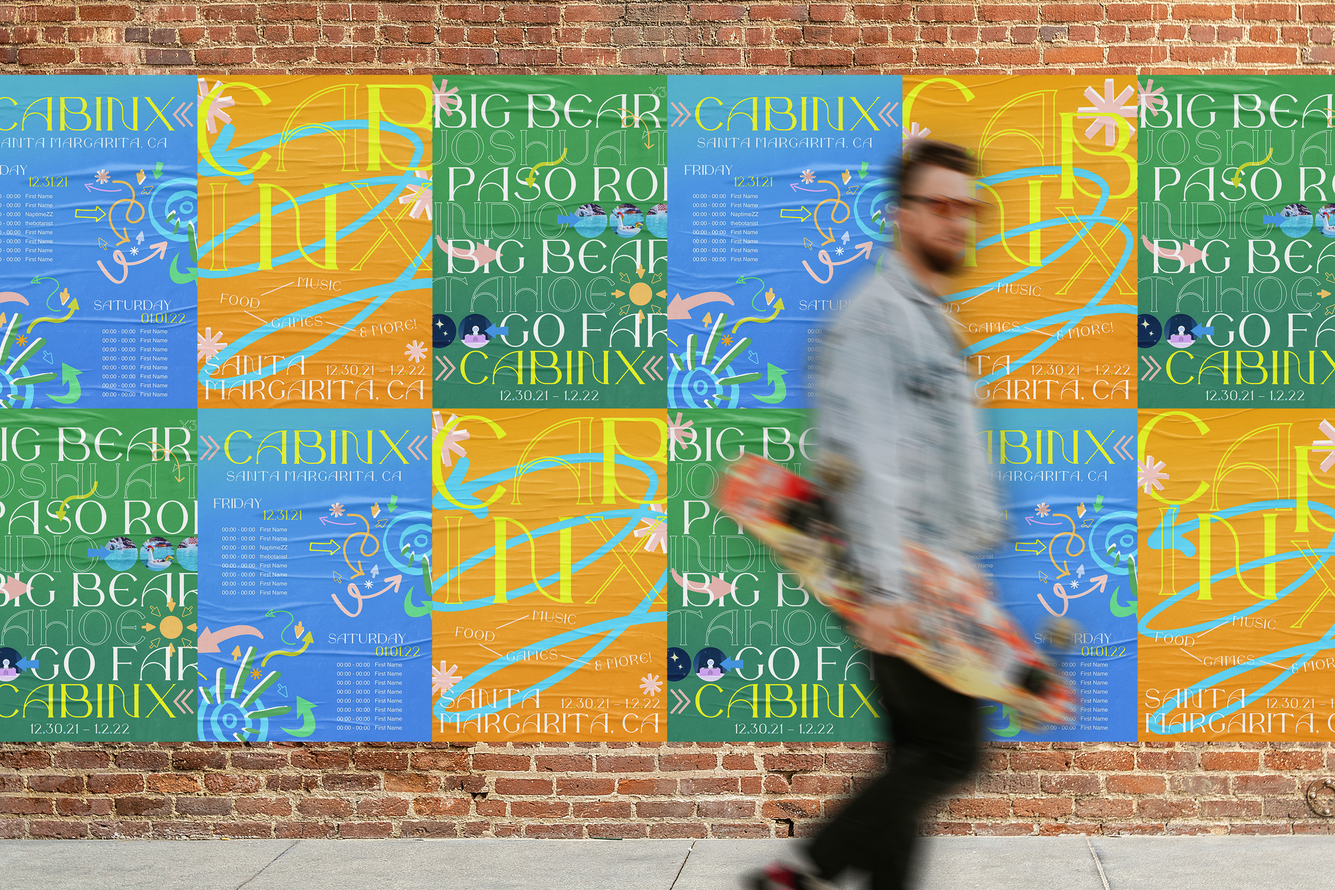
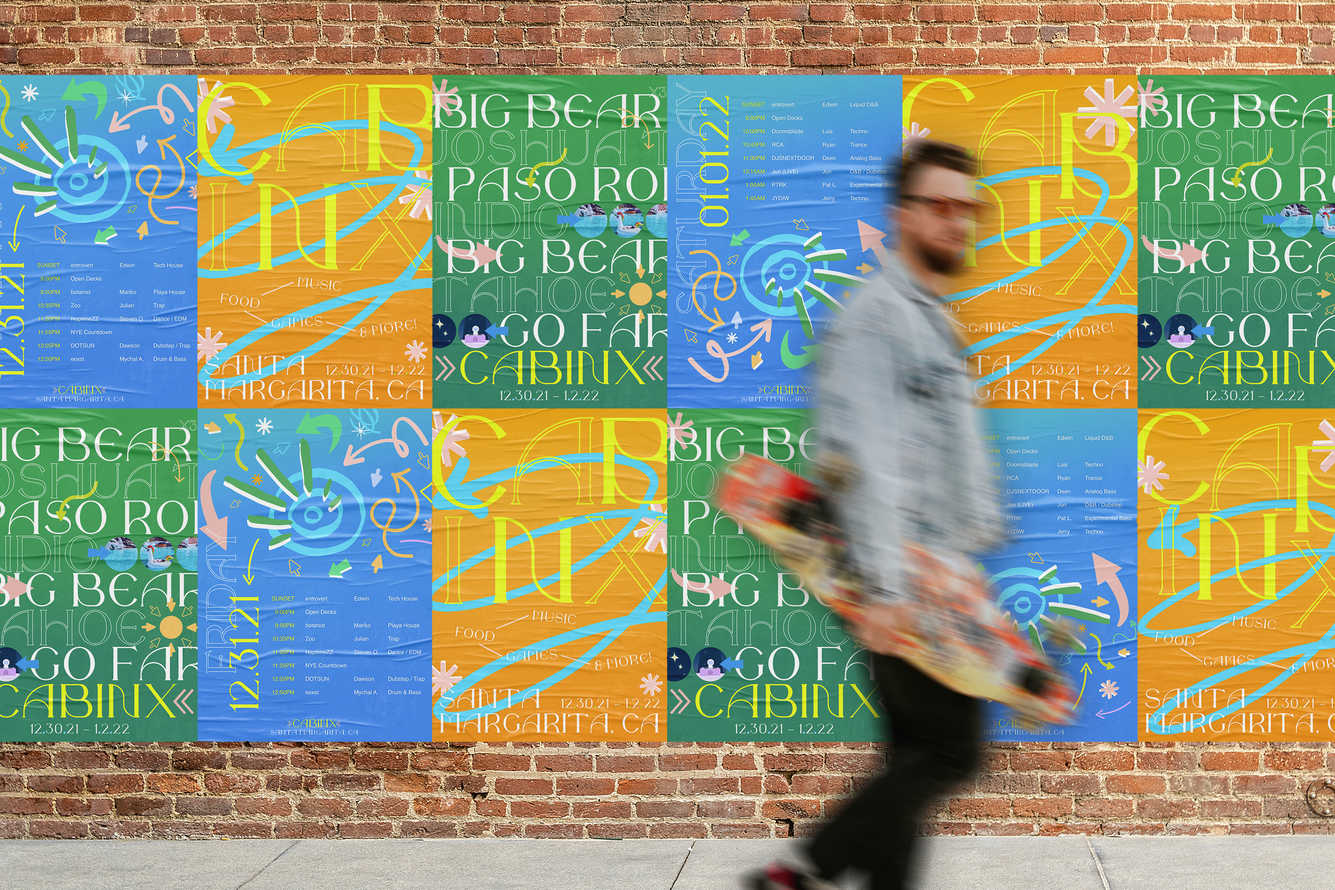
updated cabin mockup image to have artist names

diff --git a/work.html b/work.html
@@ -82,16 +82,16 @@
           </div>
         </div>
         <div class="row">
-          <div class="images col-md-2">
+          <div class="images col-sd-1 col-md-2">
             <img src="images/NOCTA/NOCTA_BB_IG_1.jpg" alt="Nocta Basketball Instagram Story"></img>
           </div>
-          <div class="images col-md-2">
+          <div class="images col-sm-1 col-md-2">
             <img src="images/NOCTA/NOCTA_BB_IG_2.jpg" alt="Nocta Basketball Instagram Story"></img>
           </div>
-          <div class="images col-md-2">
+          <div class="images col-sm-1 col-md-2">
             <img src="images/NOCTA/NOCTA_BB_IG_4.jpg" alt="Nocta Basketball Instagram Story"></img>
           </div>
-          <div class="images col-md-2">
+          <div class="images col-sm-1 col-md-2">
             <img src="images/NOCTA/NOCTA_BB_IG_5.jpg" alt="Nocta Basketball Instagram Story"></img>
           </div>
         </div>
